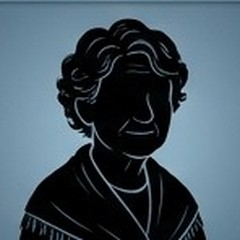
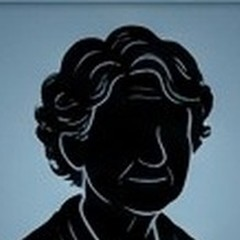
あなたの絵を、頭が相手の顔と同じくらいに見えるよう拡大して統一(全18種)。スタート演出の枠も大きくする
Claude-Session: https://claude.ai/code/session_015fwoRN5EZXb2K7SzR6LxUP

diff --git a/mahjong/simple.css b/mahjong/simple.css
@@ -851,6 +851,10 @@ body.title-ready #screen-title #tt, body.title-ready #screen-title .tt-petals { 
 body.on-title #menu-bg { transition: opacity .6s; }
 /* サイコロ画面: 「あなた」の絵は、頭の大きさが相手の顔と同じくらいになるよう、拡大して枠に収める */
 .dc-you { width: calc(var(--u) * 104); height: calc(var(--u) * 104); overflow: hidden; border-radius: calc(var(--u) * 14); border: calc(var(--u) * 3) solid #31574a; box-sizing: border-box; background: #7aa3b3; }
-.dc-you img.fyou { width: 100%; height: 100%; border: 0; border-radius: 0; transform: scale(1.3); transform-origin: 50% 45%; }
+.dc-you img.fyou { width: 100%; height: 100%; border: 0; border-radius: 0; transform: none; }
 .dc-pc.hit .dc-you { border-color: #f2c230; box-shadow: 0 0 calc(var(--u) * 16) #f2c230; }
 .dc-pc.hit .dc-you img.fyou { filter: none; }
+/* スタート演出: 「あなた」の絵も、相手の顔と頭の大きさが近くなるよう、大きめにする */
+.in-seat.me { top: 39.2cqw; }
+.in-seat.me img { height: 13.4cqw; width: 13.4cqw; }
+.in-seat.me .in-nm { font-size: 3cqw; }
